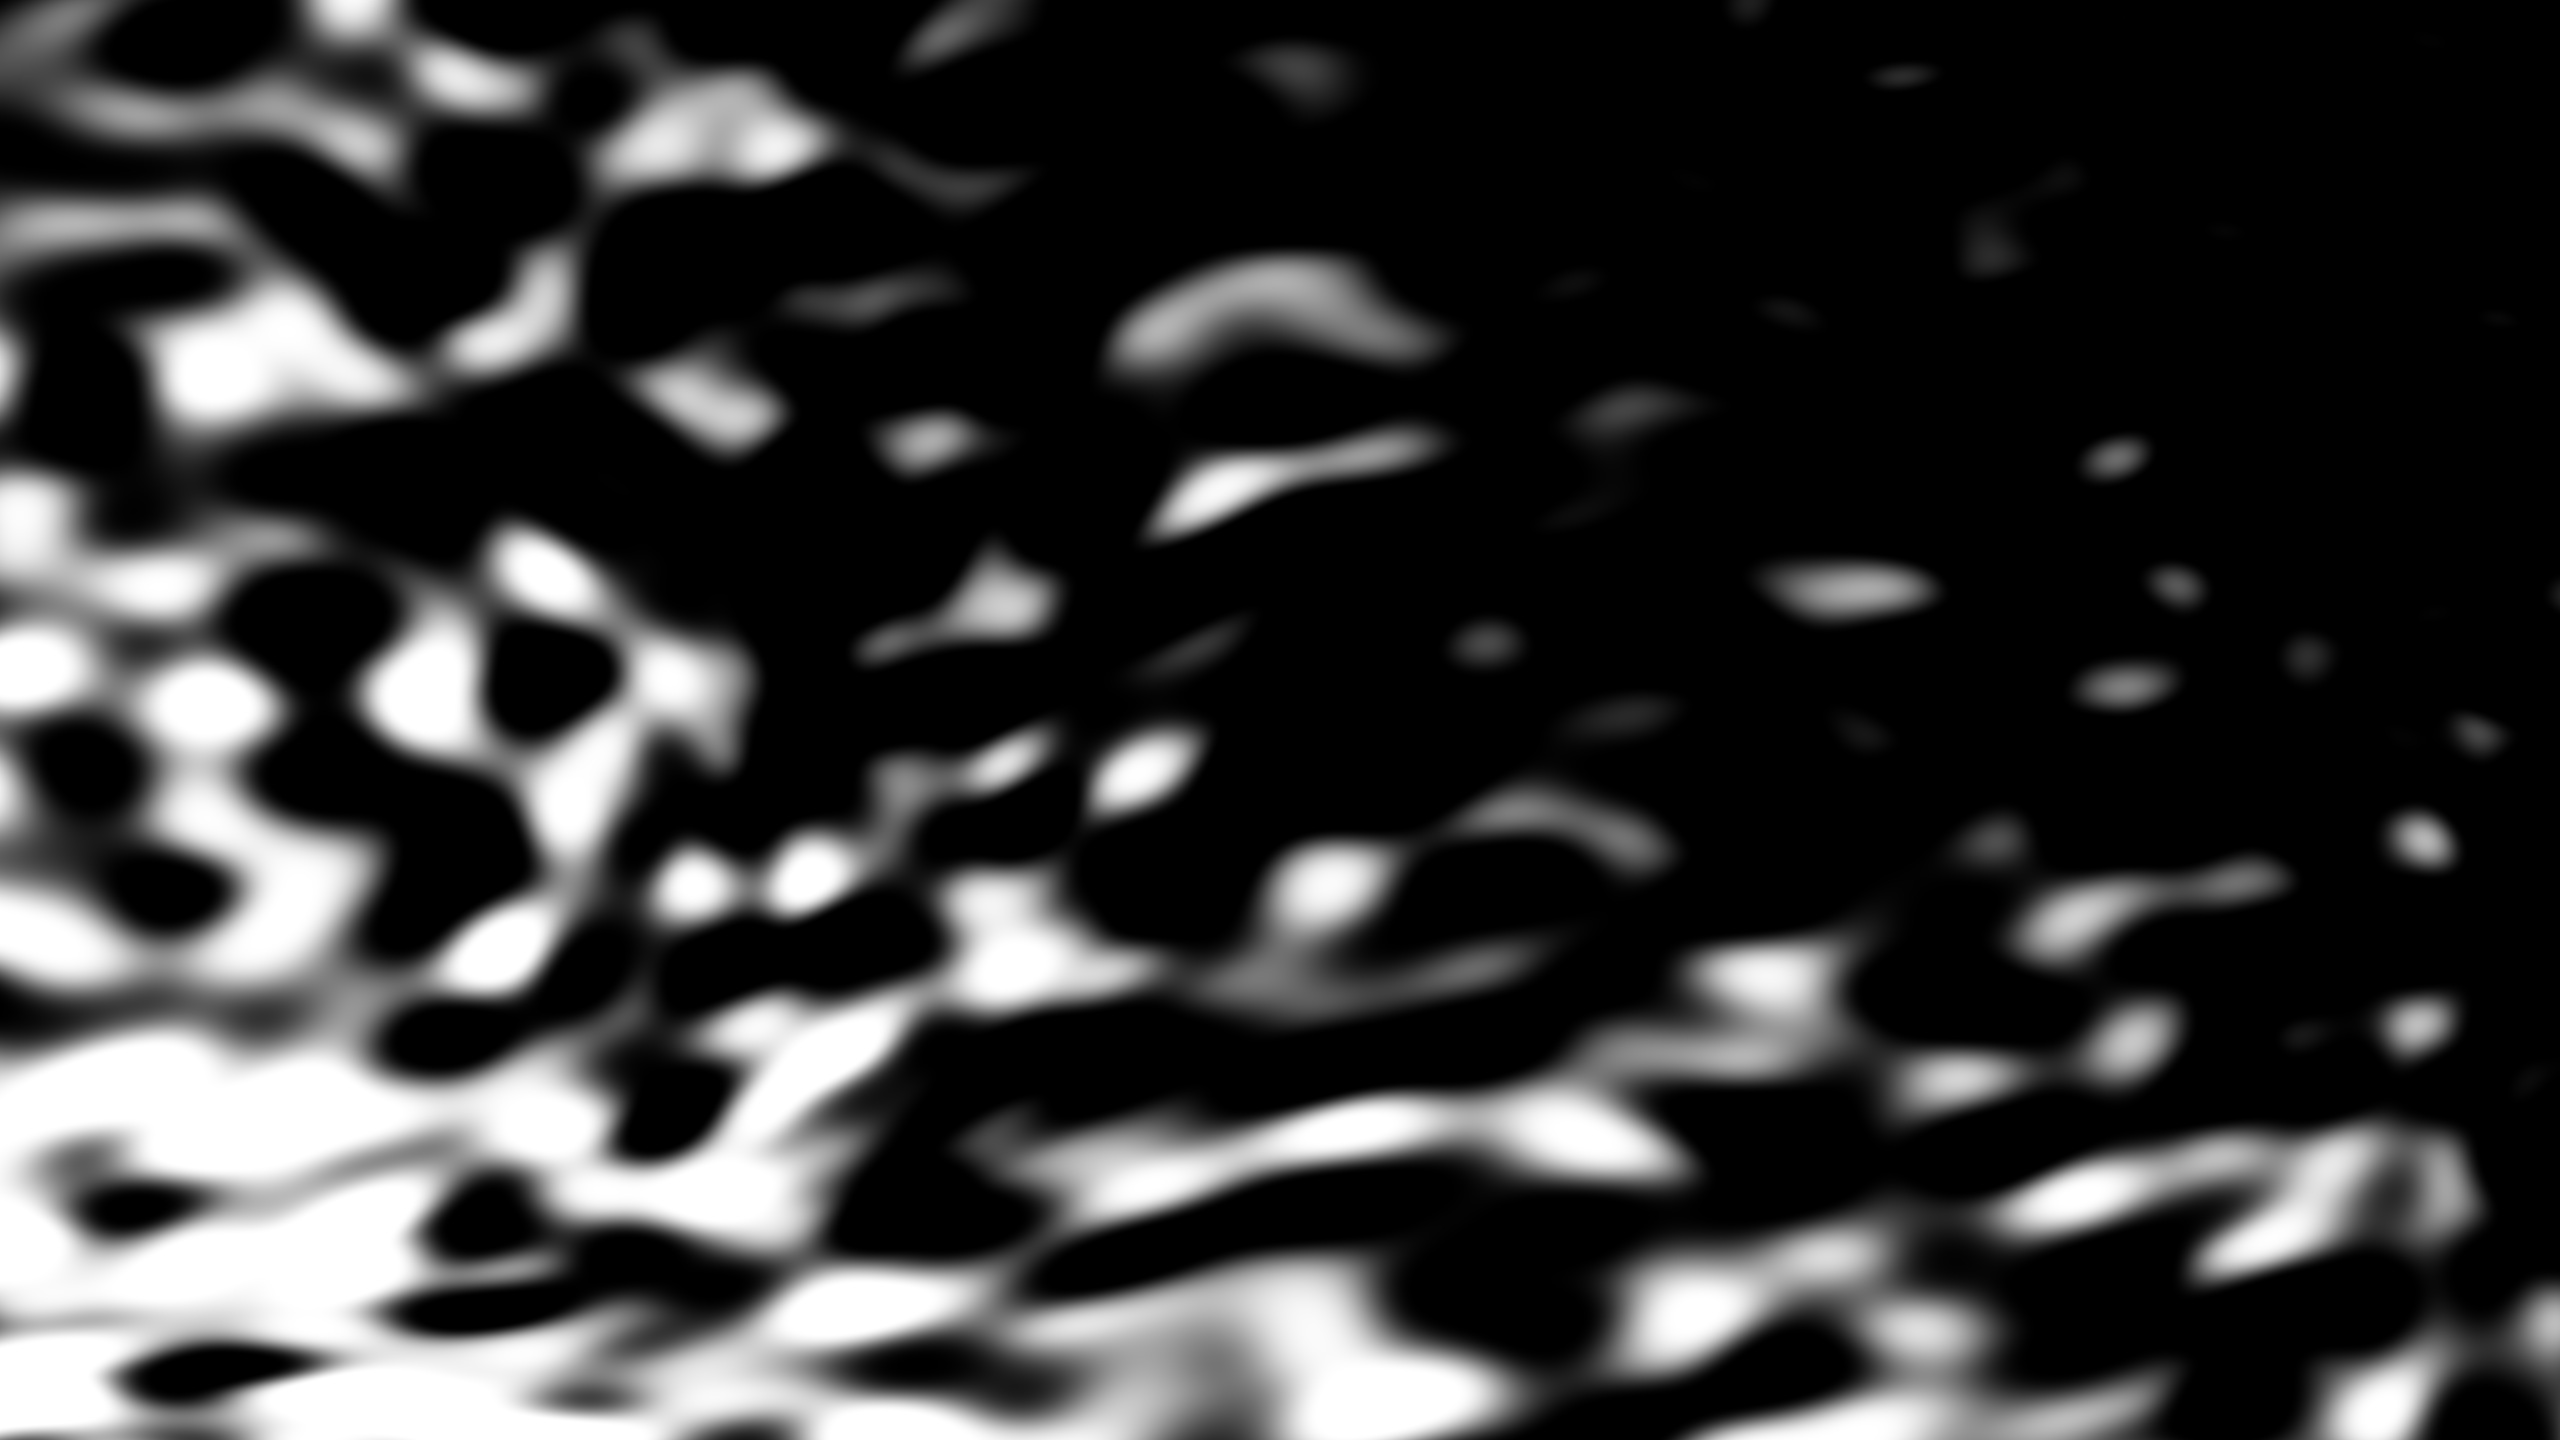
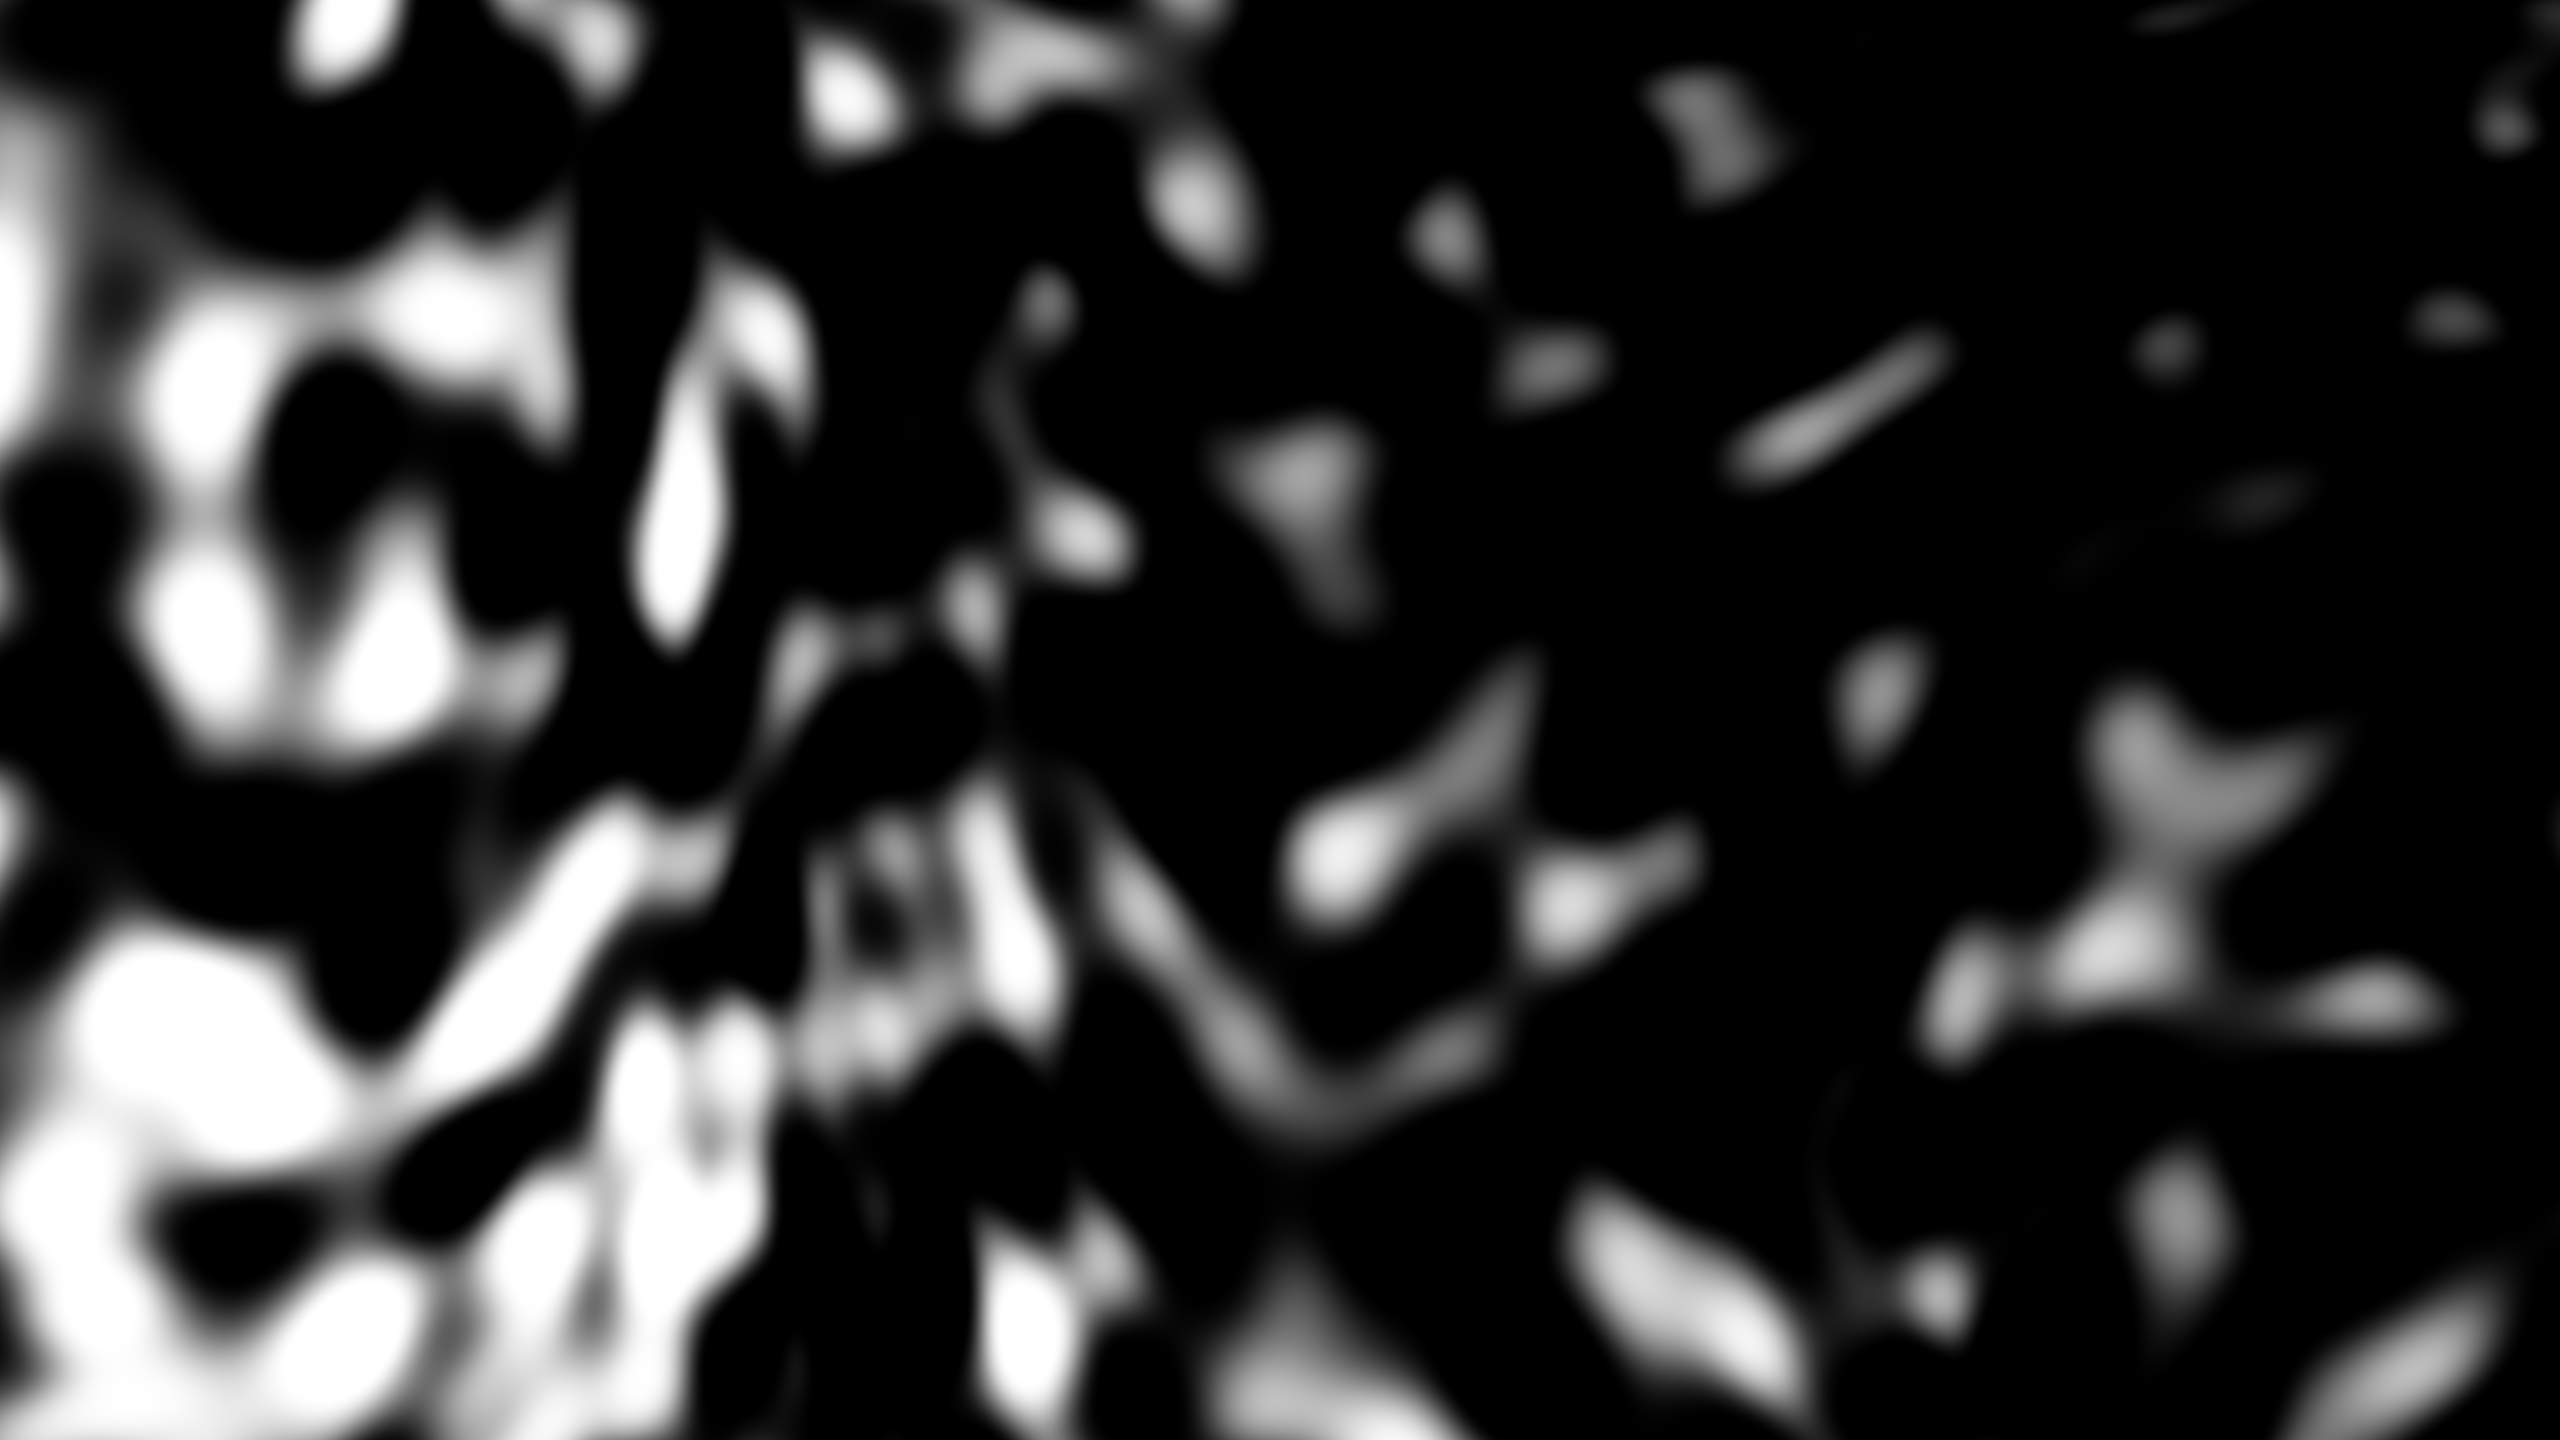
mesh scales with view port to preserve aspect ratio.

diff --git a/apps/laniakita-web/src/app/projects/(three)/shaders/noise/01/noise.tsx b/apps/laniakita-web/src/app/projects/(three)/shaders/noise/01/noise.tsx
@@ -1,8 +1,8 @@
 'use client';
-import { useRef } from 'react';
-import { shaderMaterial } from '@react-three/drei';
-import { extend, useFrame } from '@react-three/fiber';
-import type { ShaderMaterial } from 'three';
+import { Suspense, useEffect, useRef } from 'react';
+import { Preload, shaderMaterial } from '@react-three/drei';
+import { Canvas, extend, MeshProps, PlaneGeometryProps, useFrame, useThree } from '@react-three/fiber';
+import type { Mesh, Object3D, PlaneGeometry, ShaderMaterial } from 'three';
 import Common2DCanvas from '@/components/canvas/dom/common-2d-canvas';
 // @ts-expect-error -- using glsl loader for this
 import vertex from './shader.vert';
@@ -23,16 +23,31 @@ export default function NoiseShader01() {
     </Common2DCanvas>
   );
 }
+
 function Setup() {
   const shaderRef = useRef<NoiseShaderMaterialProps>();
+  const meshRef = useRef<Mesh>(null);
+  const { viewport } = useThree();
+  const PLANE_HEIGHT = 1;
+  const PLANE_WIDTH = 1;
+  const PLANE_ASPECT = PLANE_WIDTH / PLANE_HEIGHT;
+  const VIEW_ASPECT = viewport.width / viewport.height;
+
   useFrame((state, delta) => {
     shaderRef.current!.u_time! += delta;
+    if (PLANE_ASPECT > VIEW_ASPECT) {
+      meshRef.current?.scale.setX(PLANE_ASPECT / VIEW_ASPECT);
+      meshRef.current?.scale.setY(1);
+    } else {
+      meshRef.current?.scale.setX(1);
+      meshRef.current?.scale.setY(VIEW_ASPECT / PLANE_ASPECT);
+    }
   });
 
   return (
-    <mesh>
+    <mesh ref={meshRef}>
       {/* eslint-disable-next-line react/no-unknown-property -- r3f eslint issues */}
-      <planeGeometry args={[2, 2]} />
+      <planeGeometry args={[PLANE_HEIGHT, PLANE_WIDTH]} />
       {/* @ts-expect-error -- r3f uses non-standard jsx syntax */}
       <noiseShaderMaterial ref={shaderRef} key={NoiseShaderMaterial.key} />
     </mesh>

diff --git a/apps/laniakita-web/src/components/canvas/dom/common-2d-canvas.tsx b/apps/laniakita-web/src/components/canvas/dom/common-2d-canvas.tsx
@@ -82,13 +82,13 @@ export default function Common2DCanvas({ children, ...props }: { children: Reado
           <OrthographicCamera
             makeDefault
             manual
-            left={-1}
-            right={1}
-            top={1}
-            bottom={-1}
-            near={0}
-            far={1}
-            position={[0, 0, 0.5]}
+            left={-0.5}
+            right={0.5}
+            top={0.5}
+            bottom={-0.5}
+            near={-1000}
+            far={1000}
+            position={[0, 0, 1]}
           />
           {children}
           <Preload all />

diff --git a/apps/laniakita-web/src/app/(content)/page.tsx b/apps/laniakita-web/src/app/(content)/page.tsx
@@ -1,5 +1,5 @@
 import Link from 'next/link';
-import NoiseShader01 from '@/components/canvas/scenes/shaders/noise/noise';
+import NoiseShader01 from '@/app/projects/(three)/shaders/noise/01/noise';
 
 export default function Home() {
   return (
